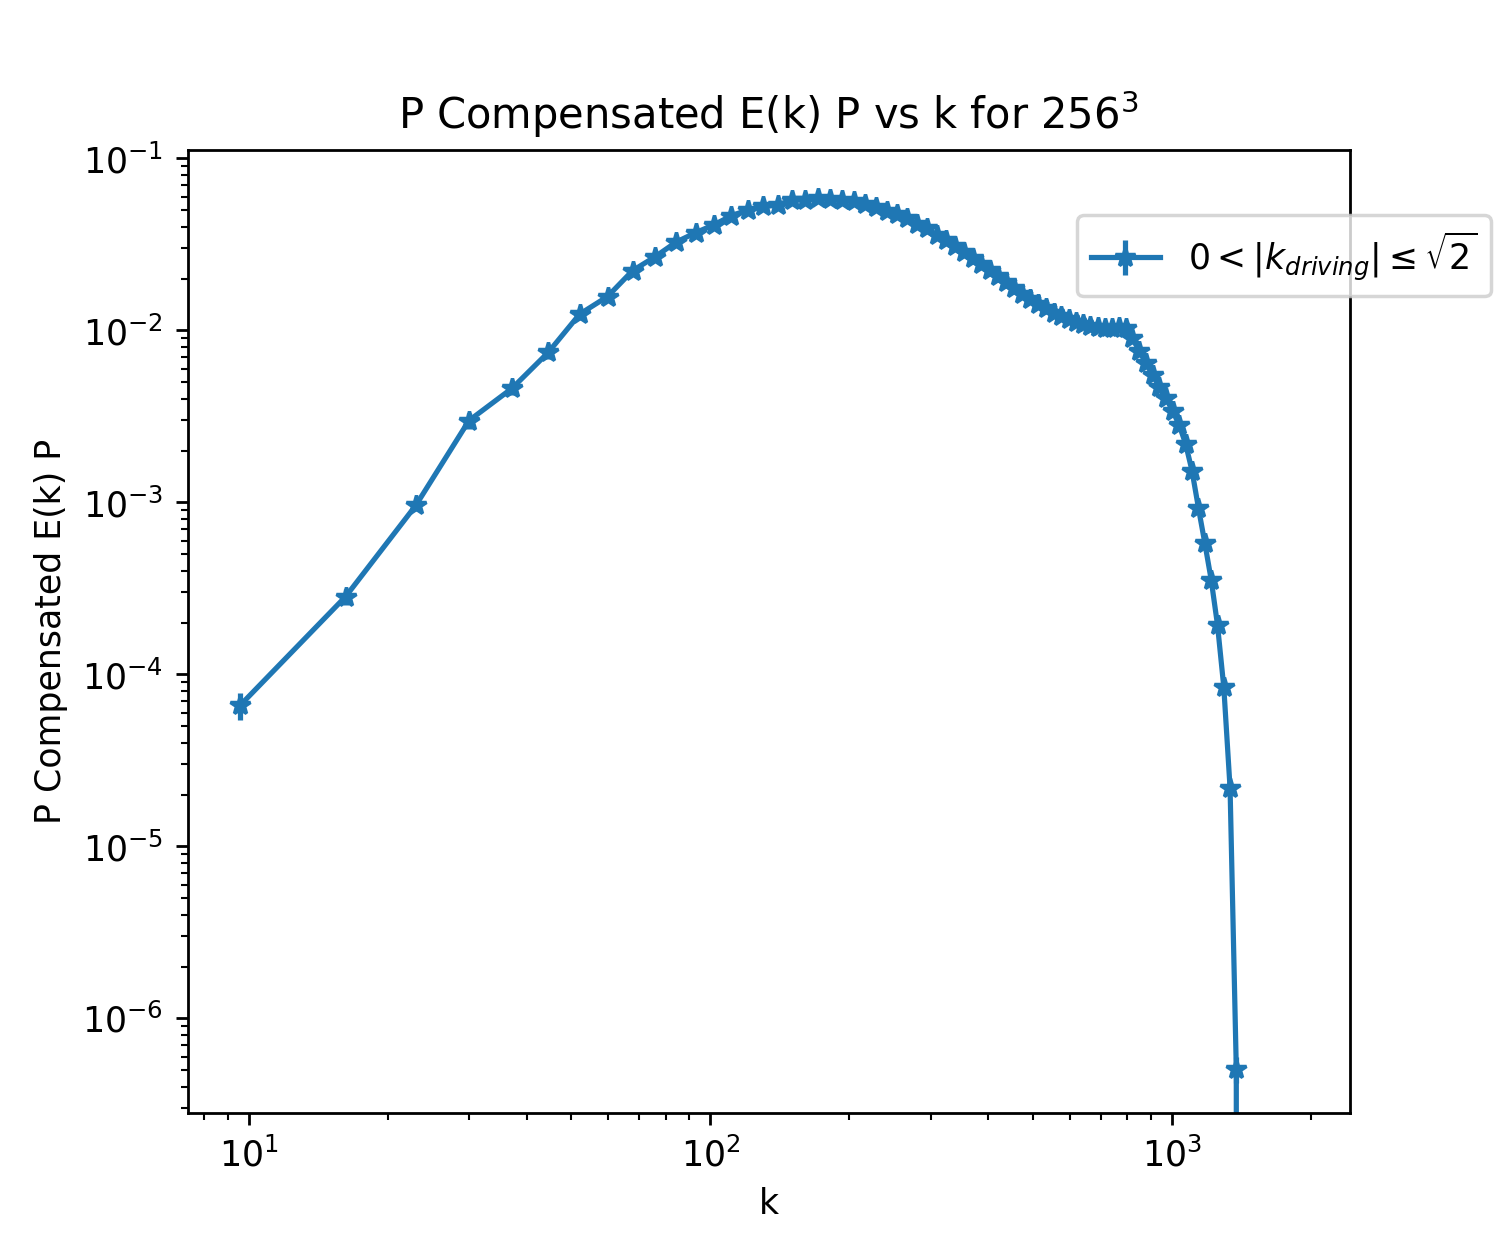
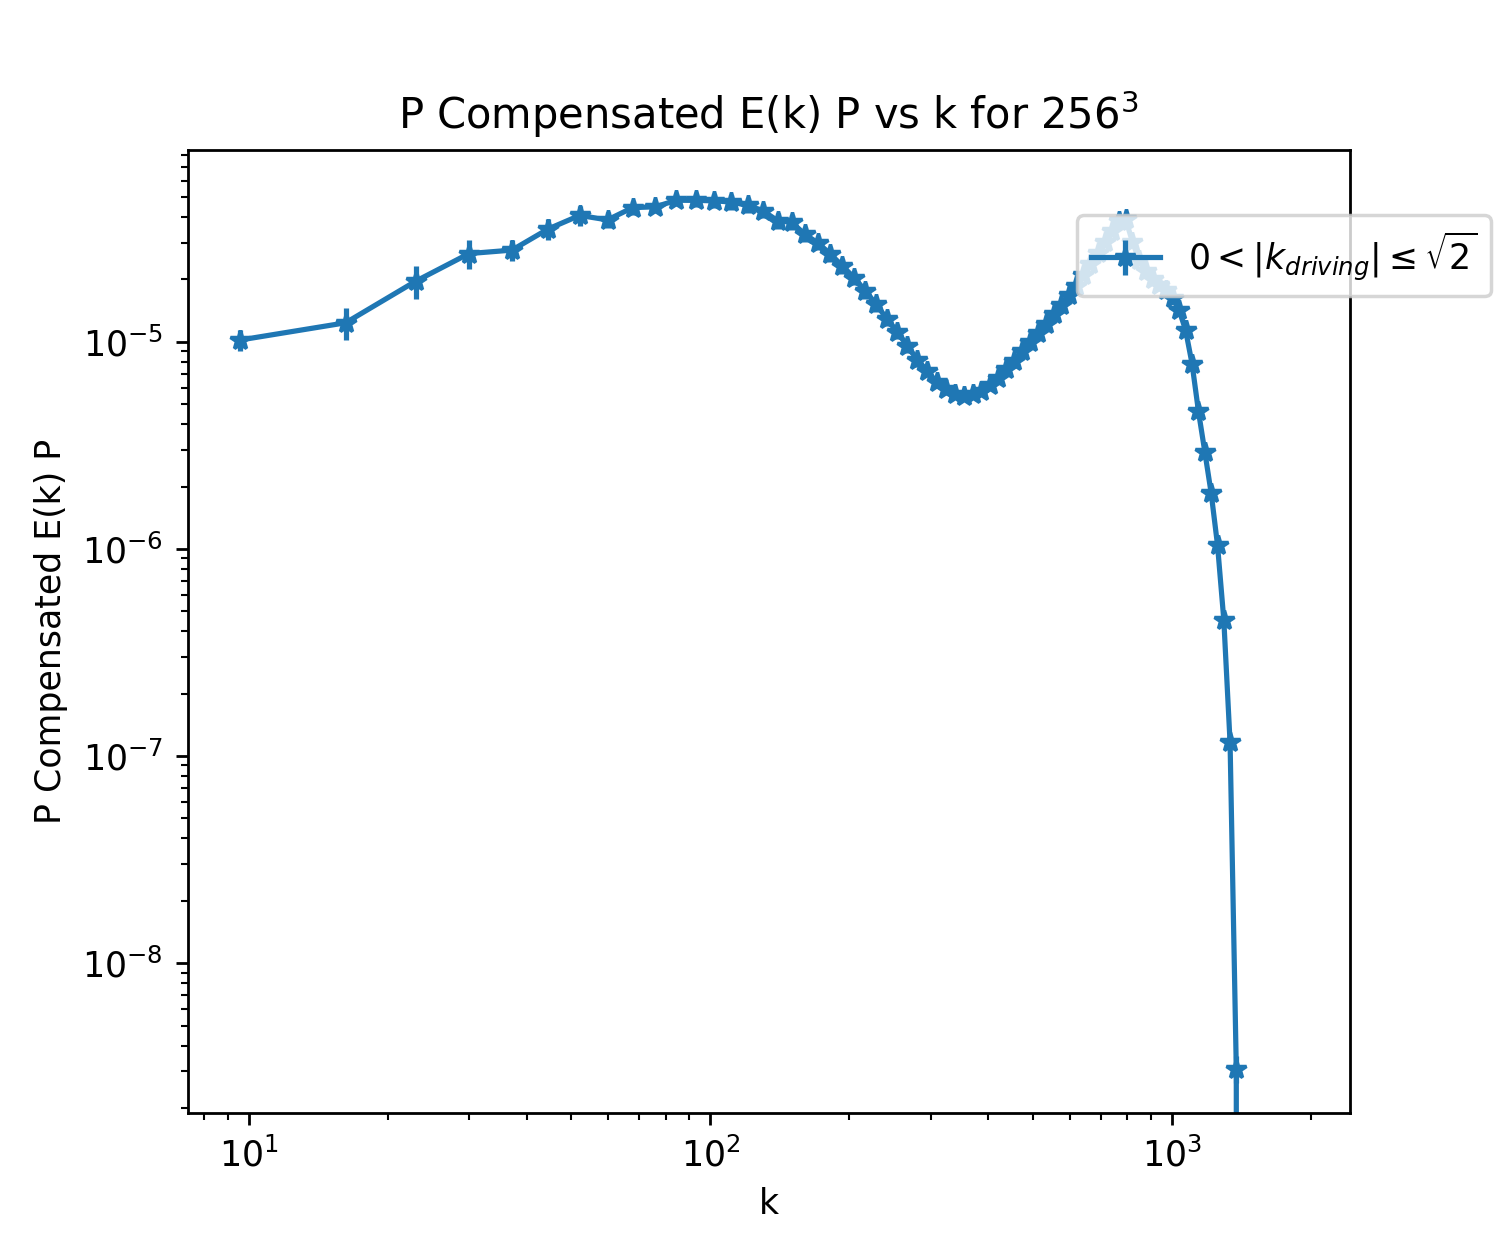
Modified some plots

diff --git a/rho-prs-spectra/rho-pressure.py b/rho-prs-spectra/rho-pressure.py
@@ -10,13 +10,13 @@ start_time = time.time()
 #Declare all parameters and filenames, file location
 
 #Load data files
-start=40
-end=50
+start=190
+end=200
 time_step=0.2
 k1=np.zeros((end-start,150))
 Ek1=np.zeros((end-start,150))
 Ekcomp1=np.zeros((end-start,150))
-filedir1='/mnt/lustre/ug4/ugrajs/cooling/512/'
+filedir1='/mnt/lustre/ug4/ugrajs/fiducial_runs/256/amp0005/'
 file=filedir1+'pluto_hst.out'
 fname = open(file,'rt')
 data1 = np.loadtxt(file, skiprows=1, usecols=(0,10))
@@ -50,8 +50,8 @@ ax.set_xscale('log')
 plt.xlabel('k')
 plt.ylabel(string+' Compensated E(k) '+string)
 leg = ax.legend(loc=2, bbox_to_anchor=(0.75, 0.95))
-plt.title(string+' Compensated E(k) '+string+' vs k for $512^3$' )
-plt.savefig(string+'k_compensated_512.png',dpi=250)
+plt.title(string+' Compensated E(k) '+string+' vs k for $256^3$' )
+plt.savefig(string+'k_compensated_256.png',dpi=250)
 
 #This is to plot the original power spectrum, without any compensation
 
@@ -65,6 +65,6 @@ ax.set_xscale('log')
 plt.xlabel('k')
 plt.ylabel(string+' E(k)')
 leg = ax.legend(loc=2, bbox_to_anchor=(0.75, 0.95))
-plt.title(string+r' E(k) vs k for $512^3$' )
-plt.savefig(string+'k_512.png',dpi=250)
+plt.title(string+r' E(k) vs k for $256^3$' )
+plt.savefig(string+'k_256.png',dpi=250)
 print("--- %s seconds ---" % (time.time() - start_time))
